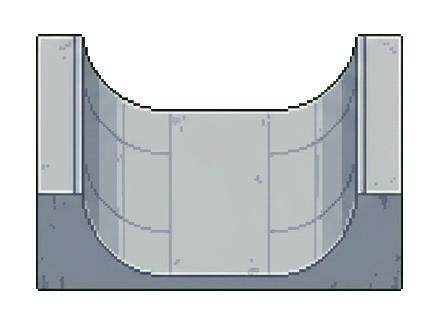
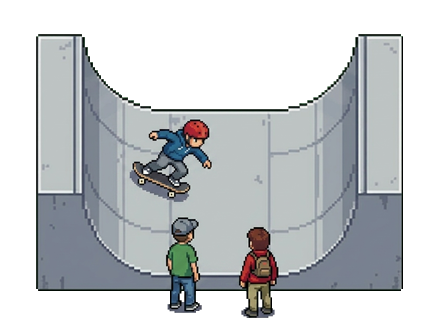
font tweak and new half pipe

diff --git a/docs/index.html b/docs/index.html
@@ -4,9 +4,25 @@
   <meta charset="UTF-8" />
   <meta name="viewport" content="width=device-width, initial-scale=1.0" />
   <title>Park Game UU</title>
+  <link rel="preconnect" href="https://fonts.googleapis.com">
+  <link rel="preconnect" href="https://fonts.gstatic.com" crossorigin>
+  <link href="https://fonts.googleapis.com/css2?family=Bitcount:wght@100..900&family=VT323&display=swap" rel="stylesheet">
   <script src="https://cdn.jsdelivr.net/npm/konva@9/konva.min.js"></script>
   <style>
-    body { margin: 0; display: flex; height: 100vh; font-family: sans-serif; }
+    body { 
+      margin: 0; 
+      display: flex; 
+      height: 100vh;
+      font-family: "Bitcount", system-ui;
+      font-optical-sizing: auto;
+      font-weight: 400;
+      font-style: normal;
+      font-variation-settings:
+        "slnt" 0,
+        "CRSV" 0.5,
+        "ELSH" 0,
+        "ELXP" 0;
+    }  
     #sidebar {
       width: 300px;
       background: #f3f3f3;
@@ -27,6 +43,9 @@
       cursor: pointer;
       background: white;
       font-size: 32px;
+    }
+    h3 {
+      font-weight: 400;
     }
     #beurt {
       padding: 10px;
